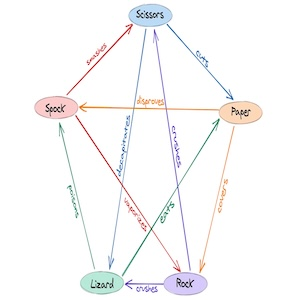
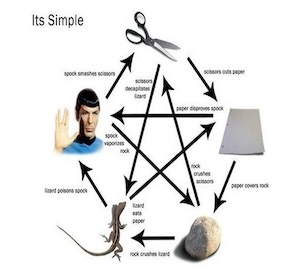
Add new background image and add new heigt to make pictures more responsive

diff --git a/assets/js/script.js b/assets/js/script.js
@@ -1,3 +1,6 @@
+ /**
+  * 
+  */
  document.addEventListener("DOMContentLoaded", function(){
     let buttons = this.getElementsByTagName("button");
     for (let button of buttons) {
@@ -10,7 +13,7 @@
         
       })
     } 
-  })
+  });
   //**Modal Rules */
   let btnRules = document.querySelector('.rules-btn')
   let btnClose = document.querySelector('.close-btn')
@@ -24,7 +27,13 @@
     modalRules.classList.toggle('show-modal')
   });
   //**Reload Rules */
-   let reloadRules = document.querySelector('.reload-btn')
+  let reloadRules = document.getElementById('reload-btn')
+   reloadRules.addEventListener('click', function() {
+    window.location.reload();
+    reloadRules.innerText= 'Restart';
+    reloadRules.style.display = 'flex';
+    
+   });
    
   //**Variables */
   let rockchoice = document.getElementsByClassName('choice-rock');
@@ -39,9 +48,12 @@
   let choiceNumber = Math.floor(Math.random() * 5);
   let computerChoice = computerOptions[choiceNumber];
   let result = document.getElementById('result');
-  let playerScoreBoard = document.getElementById("y-score");
-  let computerScoreBoard = document.getElementById("c-score");
+  let movesLeft = 10;
+  if (moves === 10) {
+    gameOver(playerChoice, movesLeft);
+  }
 
+  /** Gets a random choice for computer */
   function getComputerChoice() { 
    let computerOptions = ["rock", "paper", "scissors", "lizard", "spock"];
    let choiceNumber = Math.floor(Math.random() * 5);
@@ -51,7 +63,7 @@
    };
 
   
-
+   /** Converts computer Choice words into their icons*/
    function convert(computerChoice) {
     if(computerChoice === 'rock') return   '<i class="fa-solid fa-hand-rock"></i>'
     if(computerChoice === 'paper') return   '<i class="fa-solid fa-hand"></i>'
@@ -59,12 +71,14 @@
     if(computerChoice === 'lizard') return   '<i class="fa-solid fa-hand-lizard"></i>'
     return '<i class="fa-solid fa-hand-spock"></i>'
    };
+
+   /** Gets player choice and computer choice to display below the options */
    function game(playerChoice) {
     let box = document.getElementById('moves');
     box.style.display = "inline-flex";
     let playerDiv = document.getElementById('Your-icon')
     playerDiv.innerHTML = convert(playerChoice);
-    let compDiv = document.getElementById('Comp-icon')
+    let compDiv = document.getElementById('Comp-icon');
     compDiv.innerHTML = convert(computerChoice);
    };
    
@@ -128,27 +142,69 @@
    let computerChoice = getComputerChoice();
    decideWinner(playerChoice, computerChoice);
   };
+
+  /**
+   * Displays results based on player and computer choice
+   */
   function win() {
     document.getElementById('result').innerHTML = "You win!";
-  alert('You win');
    incrementPlayerScore();
   };
   function lose() {
     document.getElementById('result').innerHTML = "You lose..";
-   alert('You lose..');
    incrementComputerScore();
   };
   function tie() {
     document.getElementById('result').innerHTML = "It's a tie";
-    alert("It's a tie")
   };
+
+  /**Gets the current player score and increases it by 1 after each win */
    function incrementPlayerScore() {
     let playerScore = (document.getElementById('y-score').innerText);
     document.getElementById('y-score').innerText = ++playerScore;
    };
-  
+
+   /**Gets the current player score and increases it by 1 after each win */
    function incrementComputerScore() {
     let computerScore = (document.getElementById('c-score').innerText);
     document.getElementById('c-score').innerText = ++computerScore;
    };
+
+   /** Reduces Moves left to reach game over and decide winner */
+   function decreaseMovesLeft() {
+    let movesLeft = (document.getElementById('moves-left').innerText);
+    document.getElementById('moves-left').innerText = movesLeft--;
+   }
     
+  function restartGame(playerChoice, movesLeft) {
+      let pickChoice = document.getElementById('choice');
+      let result = document.getElementById('result');
+      let reloadRules = document.getElementById('reload-btn');
+      playerChoice.forEach(option => {
+        option.style.display = 'none';
+      });
+
+      pickChoice.innerText = 'Game over !!'
+      movesLeft.style.display = 'none';
+
+      if (playerScore > computerScore) {
+        result.style.fontSize = '2rem';
+        result.innerText = 'You Won The Game'
+        result.style.color = 'black'
+      } else if (playerScore < computerScore) {
+        result.style.fontSize = '2rem';
+        result.innerText = 'You Lost The Game'
+        result.style.color = 'black'
+      } else {
+        result.style.fontSize = '2rem';
+        result.innerText = 'It was a tie';
+        result.style.color = 'black';
+      }
+      reloadRules.addEventListener('click', function() {
+        window.location.reload();
+        reloadRules.innerText= 'Restart';
+        reloadRules.style.display = 'flex';
+        
+       })
+    };
+  

diff --git a/assets/css/style.css b/assets/css/style.css
@@ -7,9 +7,9 @@
 @import url('https://fonts.googleapis.com/css2?family=Zeyada&display=swap');
 
 body {       
-    background: url("../images./two-boys-playing-rock-paper-scissors.jpg") no-repeat center center/cover;
+    background: url("../images./2-boys-playing-rock-paper-scissors.jpg")no-repeat center center/cover;
     font-family: 'Zeyada', sans-serif;
-    height: 100vh;
+    height: 850px;
 }
 h1 {
     color: black;
@@ -26,18 +26,17 @@ h2 {
     margin-top: 2rem;
     box-sizing: border-box;
     border: 3px solid;
+    width: 100%;
+    height: 600px;
     border-radius: 20px;
-    width: 85%;
-    height: 65vh;
-    max-height: 550px;
     max-width: 100vw;
     margin-left: auto;
     margin-right: auto;
         
 }
 #box {
-    padding-top: 5rem;
-    margin-top: 5rem;
+    padding-top: 2rem;
+    margin-top: 2rem;
 }
 .header {
     display: flex;
@@ -63,11 +62,18 @@ h2 {
     justify-content: space-evenly;
     flex-wrap: wrap;
  }
- .choice{
+ #choice{
     text-align: center;
     padding-bottom: 15px;
     padding-top: 15px;
     font-size: 1.5rem;
+ }
+
+ #moves-left {
+    text-align: center;
+    padding-bottom: 15px;
+    padding-top: 15px;
+    font-size: 0.8rem;
  }
 .choice-btn {
     border-radius: 50%;
@@ -112,7 +118,7 @@ h2 {
     color: white
 }
  /*Reload button*/
-.reload-btn {
+#reload-btn {
     position: absolute;
     bottom: 2.0rem;
     left: 1.0rem;
@@ -127,7 +133,7 @@ h2 {
     letter-spacing: 0.1em;
 
 }
-.reload-btn:hover {
+#reload-btn:hover {
     background: black;
     border: 2px solid green;
     color: white
@@ -174,8 +180,8 @@ h2 {
     position: absolute;
     display: inline-flex;
     display: none;
-    padding-top: 10px;
-    left: 18px;
+    padding-top: 15px;
+    left: 25px;
 }
 
  #you, #comp {
@@ -200,12 +206,13 @@ h2 {
 @media screen and (min-width :768px) {
 
     .game-area {max-width: 900px;
-        max-height: 700px;
+        height: 700px;
         margin: 10px auto;
-        padding-top: 1.5rem;
+        padding-top: 2.5rem;
      }
       #box {
         padding-top: 3rem;
+
       }
 
    
@@ -217,7 +224,7 @@ h2 {
     h2 {
         font-size: 25px;
     }
-    p {
+    .choice {
         display: none;
     }
    
@@ -234,8 +241,13 @@ h2 {
     .game {
         width: 100%;
     }
+
+    #moves {
+        left: 28%;
+        padding-top: 20px;
+    }
     
-   #you {
+   #you ,#comp {
     position: relative;
     font-size: 4.0rem;
     background-color: white;
@@ -243,16 +255,8 @@ h2 {
     border-radius: 50%;
     width: 100px;
     height: 100px;
-   
-}
-#comp {
-    position: relative;
-    font-size: 4.0rem;
-    background-color: white;
-    border: 10px solid;
-    border-radius: 50%;
-    width: 100px;
-    height: 100px;
+    padding-top: 25px;
+    padding-left: 30px; 
    
 }
 }

diff --git a/index.html b/index.html
@@ -33,7 +33,9 @@
 
 </div>
       </div>
-     <div class="choice"> Pick a choice: </div>
+     <div id="choice"> Pick a choice</div>
+     <div id="moves-left">Moves left: 10
+     </div>
 <div class="game">
     <div class="choice-rock">
     <button class="choice-btn btn-black" data-type="rock"  aria-label="click on the rock icon"
@@ -82,13 +84,13 @@
     <header class="modal-header">
     <h2 class="modal-heading">Rules</h2>
     <button class="close-btn">
-        <img src="./assets/images./icons8-close-50.png" alt="Close button">
+        <img src="./assets/images./Close.png" alt="Close button">
     </button>
    </header>
-     <img src="./assets/images./RULES.JPG" alt="Rules Image" class="rules-img">
+     <img src="./assets/images./Rules.jpg" alt="Rules Image" class="rules-img">
  </div>   
 </div>
-  <button class="reload-btn">Reload</button>
+  <button id="reload-btn">Reload</button>
 </div>
 </div>
     <script src="assets/js/script.js"></script>

diff --git a/README.md b/README.md
@@ -104,6 +104,10 @@ Each player picks a variable between ROCK, PAPER, SCISSORS, LIZARD, SPOCK and re
   <li>I confrimed that the colors and font chosen are easy to read and accessible by running it through lighthose in dev tools. And i also made sure all buttons were asseccible by screen readers by adding an aria-label.</li>
   <img width="1710" alt="Screenshot 2024-04-22 at 12 35 30" src="https://github.com/Oluwapelumi99/Yoga-Club/assets/156908824/765e41e3-a461-40d5-872c-2d48dab7419a">
 
+  ## Manual Testing 
+  <li>I tested that this page works severally using different browsers : Chrome , safari , firefox.</li>
+  <li>I tested this site is responsive using the different sizes of devices.</li>
+
   ## Unfixed bugs
  <li>There are no unfixed bugs</li>
 
